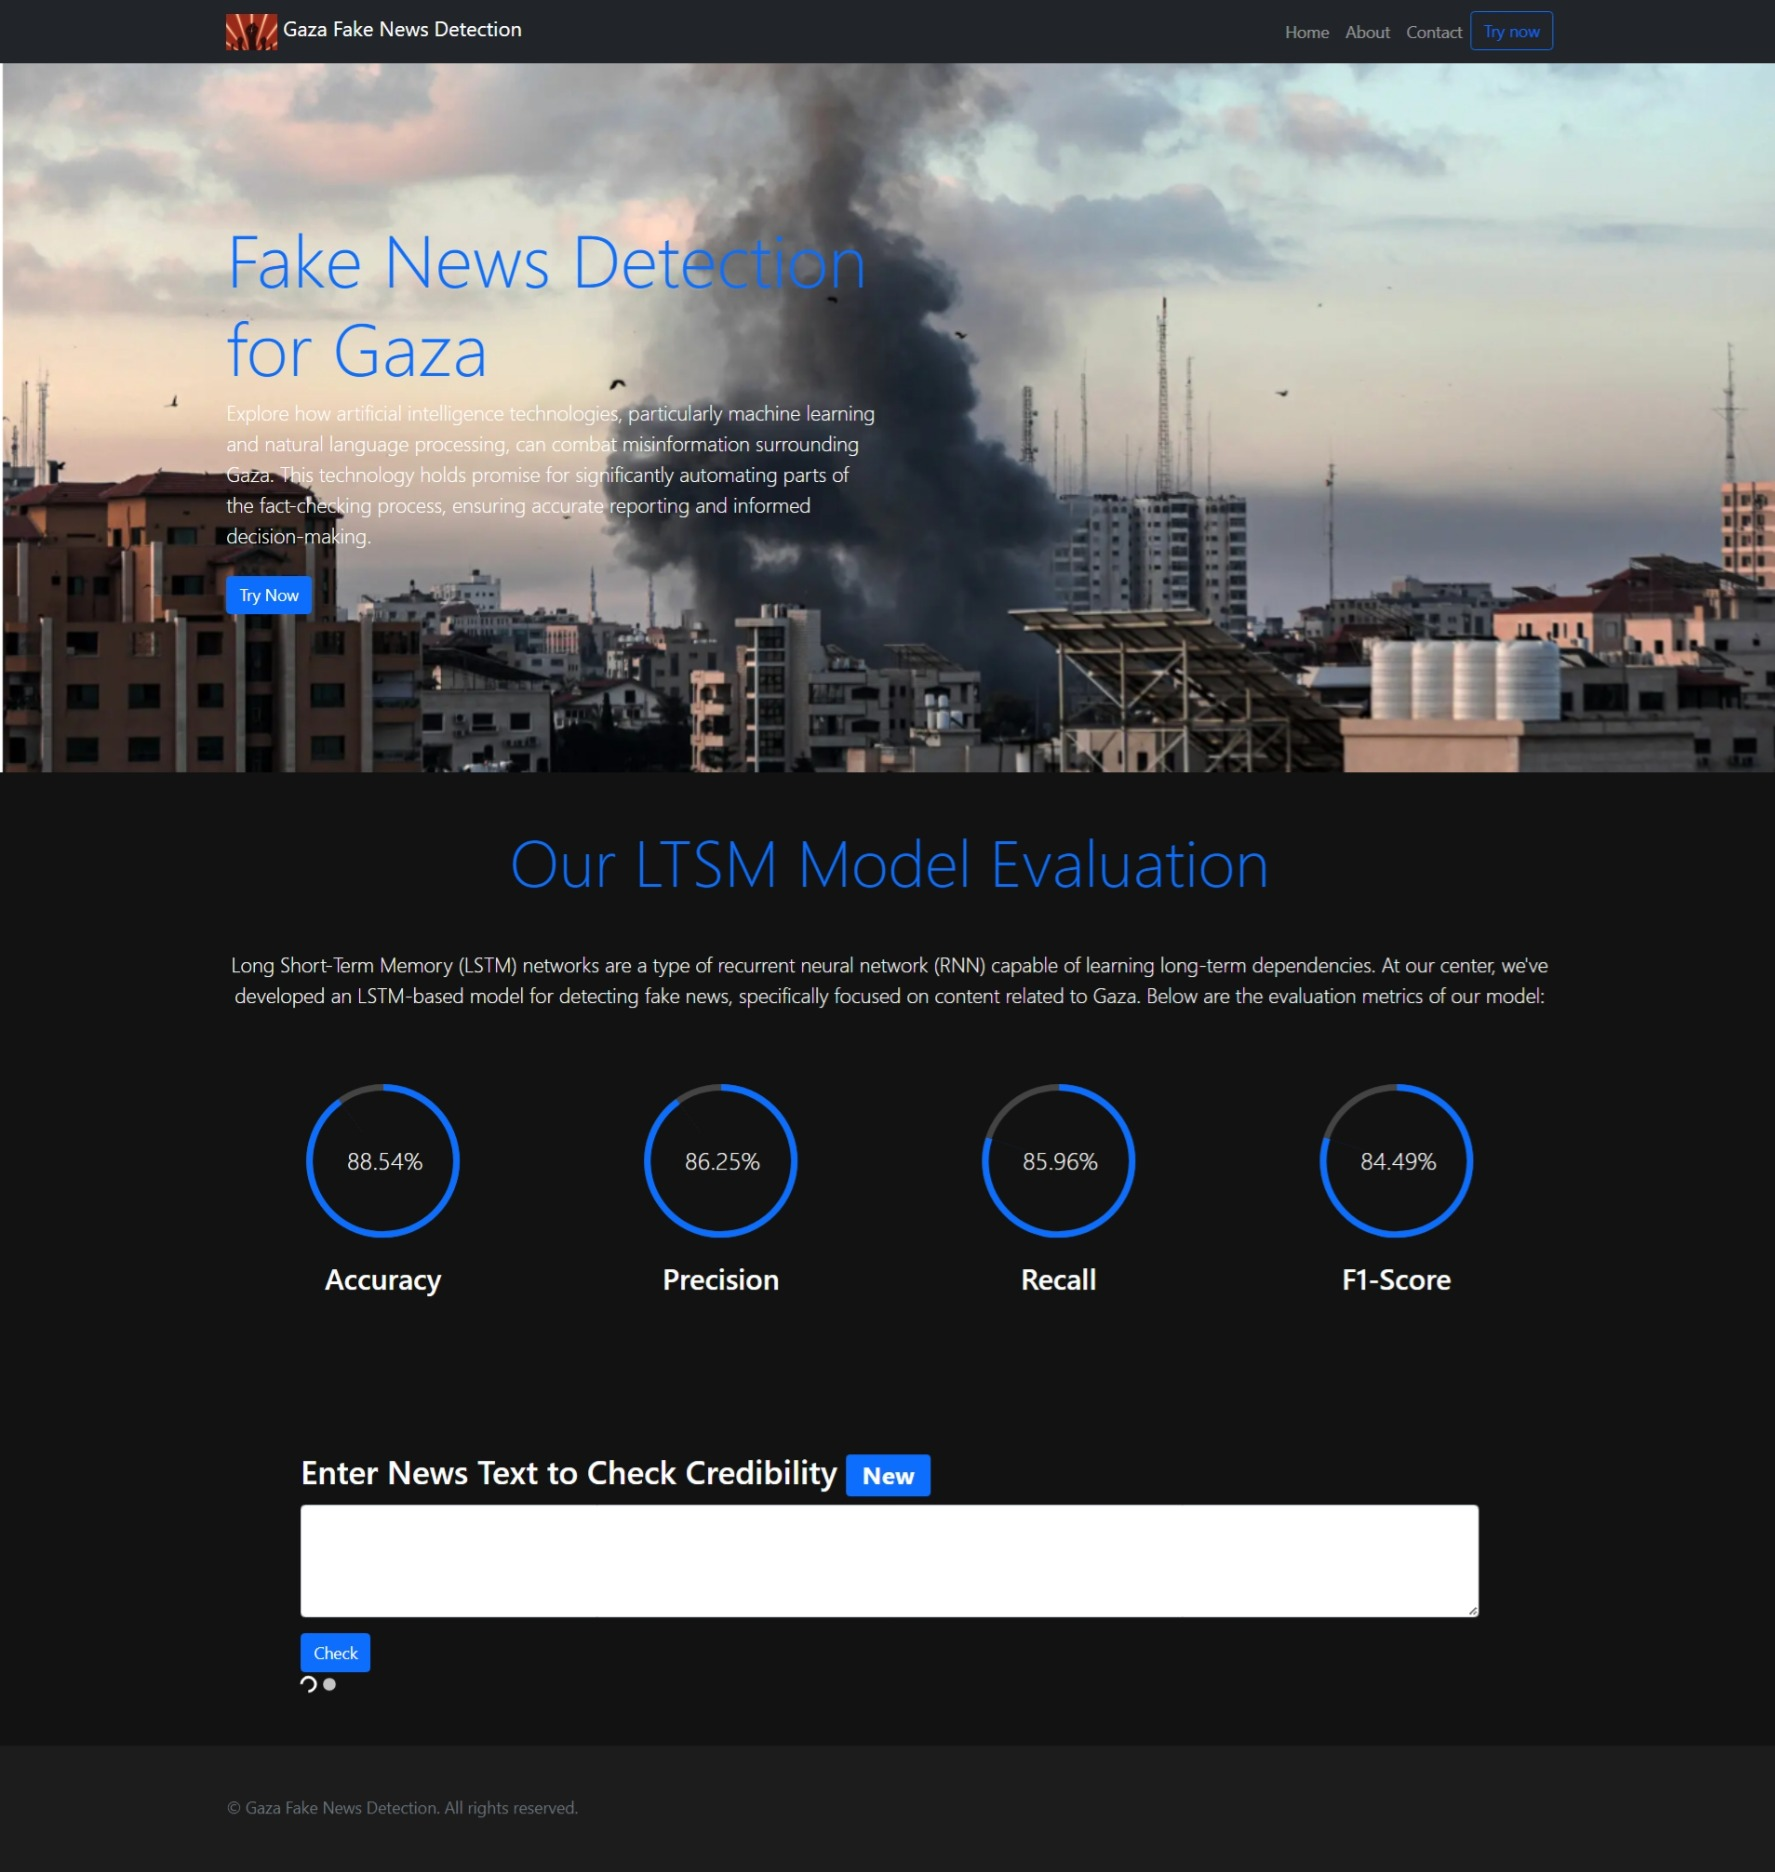
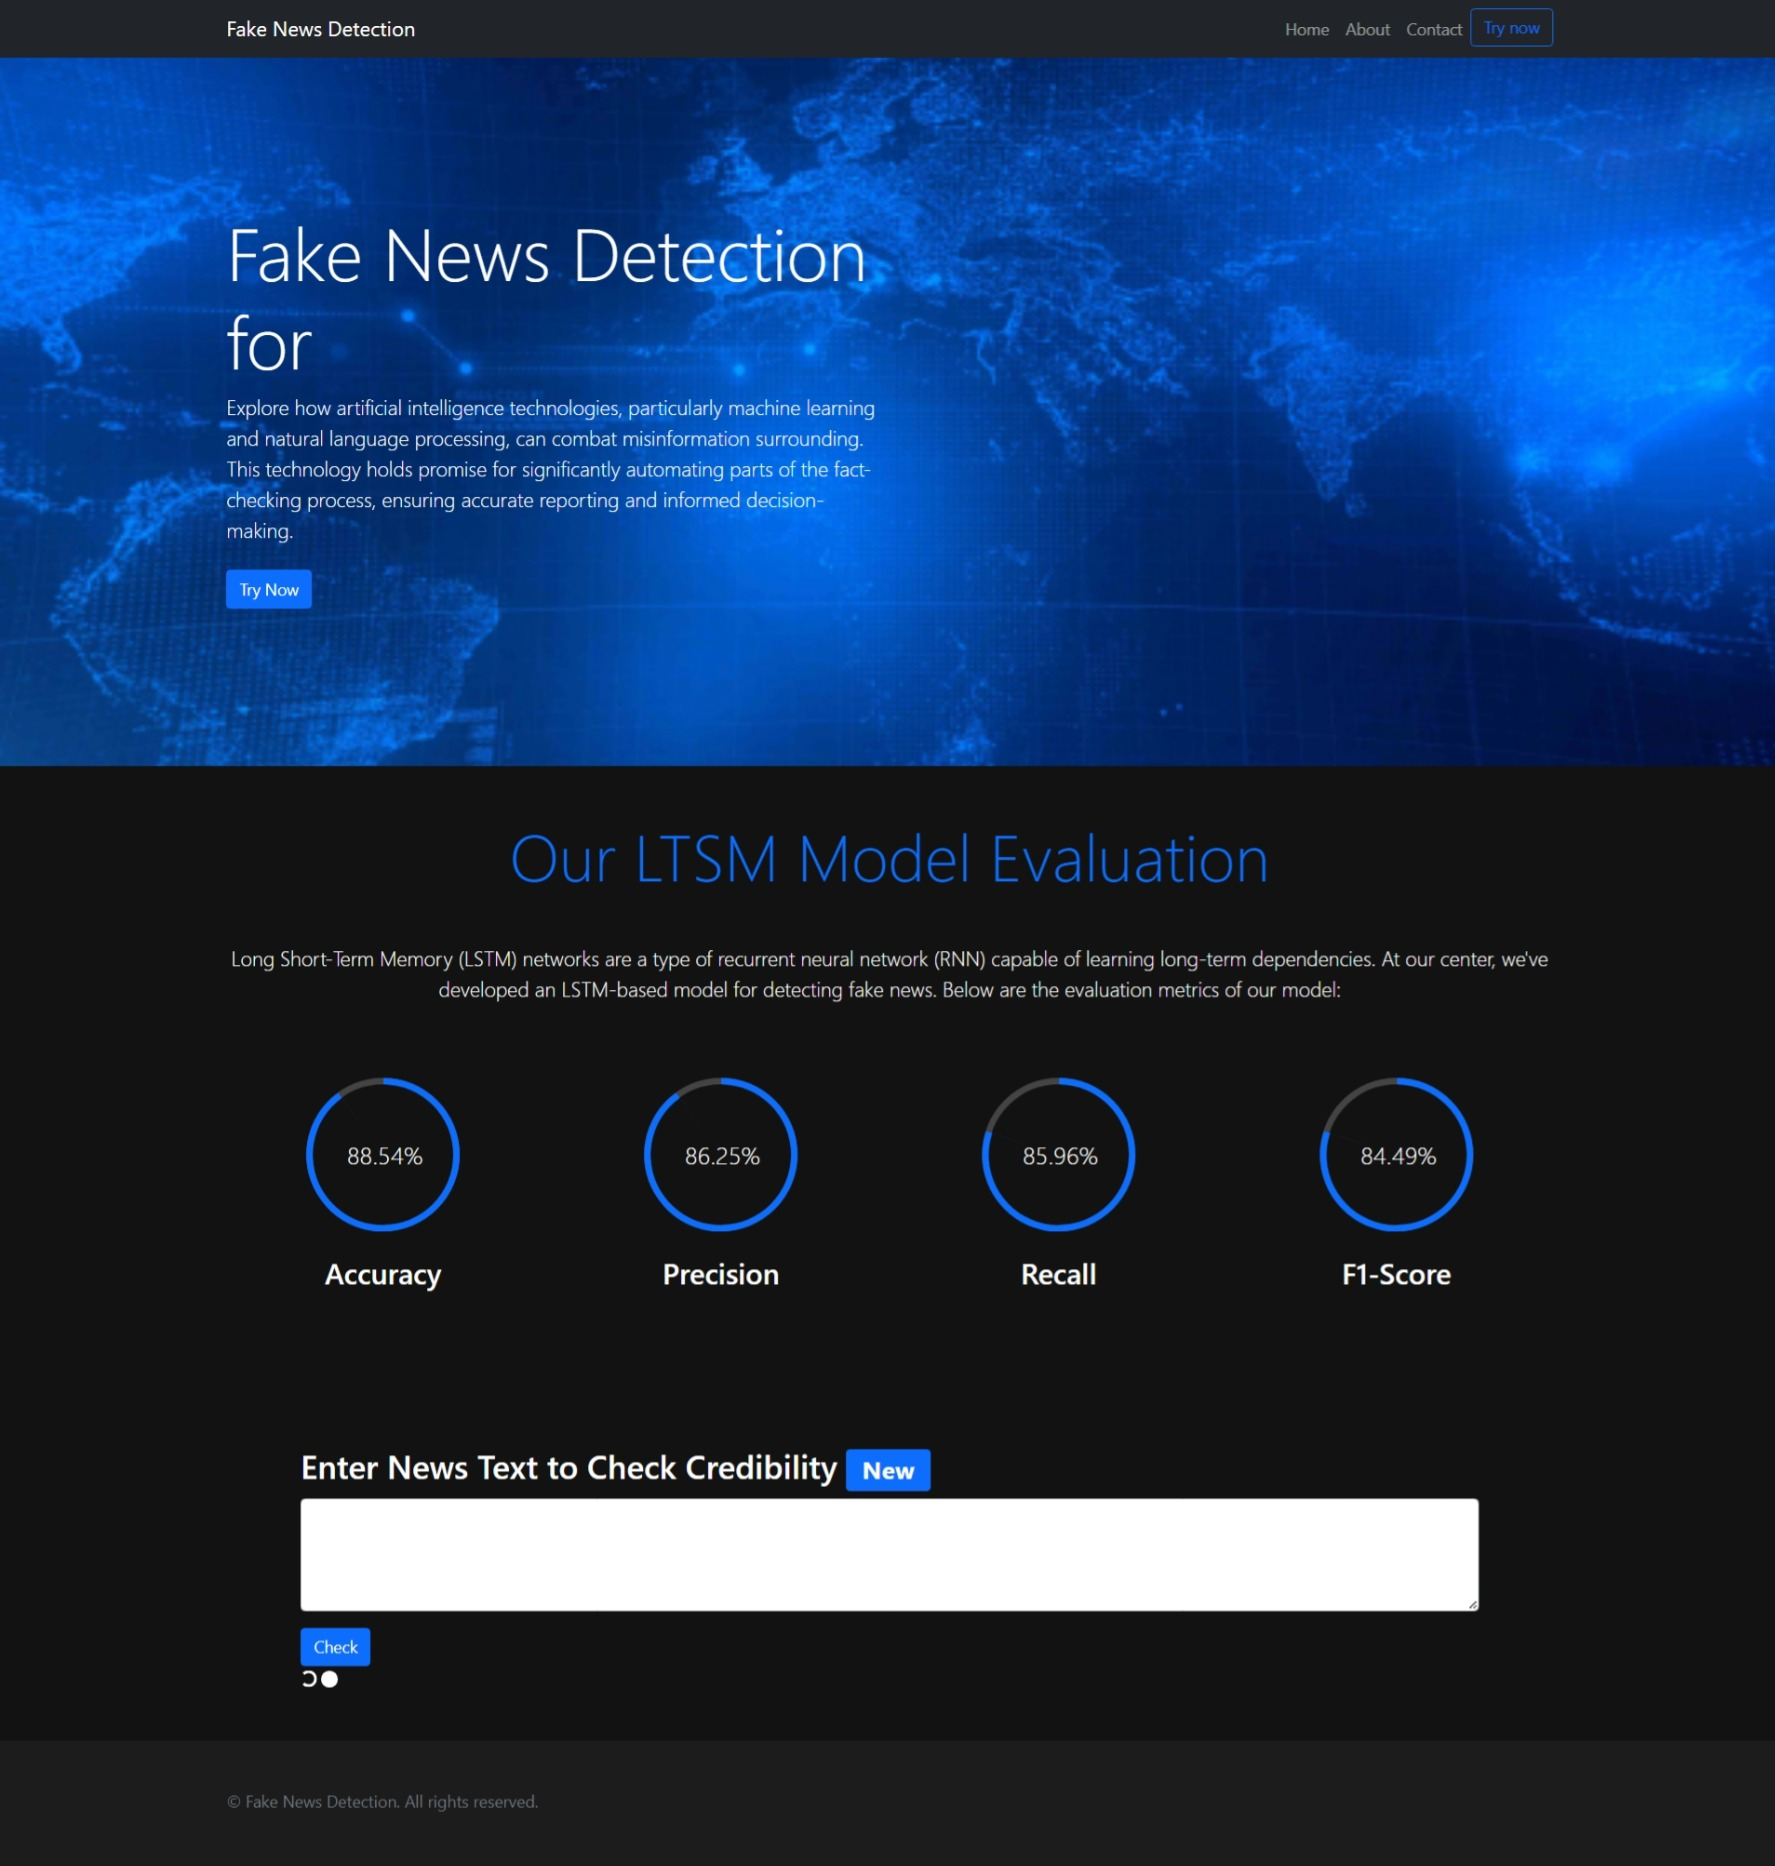
chore: Update project details

diff --git a/templates/index.html b/templates/index.html
@@ -13,7 +13,7 @@
 	<link rel="icon" type="image/png" href="./assets/images/21601.png" />
 	<link href="https://cdn.jsdelivr.net/npm/bootstrap@5.0.2/dist/css/bootstrap.min.css" rel="stylesheet"
 		integrity="sha384-EVSTQN3/azprG1Anm3QDgpJLIm9Nao0Yz1ztcQTwFspd3yD65VohhpuuCOmLASjC" crossorigin="anonymous">
-	<title>Home - Gaza Fake News Detection</title>
+	<title>Home - Fake News Detection</title>
 	<style>
 		.dark-mode {
 			background-color: #121212;
@@ -301,9 +301,7 @@
 		<nav class="navbar navbar-expand-lg navbar-dark bg-dark">
 			<div class="container">
 				<a class="navbar-brand" href="#">
-					<img src="{{ url_for('static', filename='img/th.jpeg') }}" alt="Logo" width="50" height="35"
-						class="d-inline-block align-text-top">
-					Gaza Fake News Detection
+					Fake News Detection
 				</a>
 				<button class="navbar-toggler" type="button" data-bs-toggle="collapse"
 					data-bs-target="#navbarResponsive" aria-controls="navbarResponsive" aria-expanded="false"
@@ -333,17 +331,17 @@
 	</header>
 	<main>
 		<section>
-			<div class="hero" style="background-image: url({{url_for('static', filename='img/wp.png')}})">
+			<div class="hero" style="background-image: url({{url_for('static', filename='img/Preview.jpg')}})">
 				<div class="opacity"></div>
 				<div class="container">
 					<div class="row">
 
 						<div class="col-md-6">
-							<h1 class="display-2" style="color: #0d6efd;">Fake News Detection for Gaza</h1>
+							<h1 class="display-2">Fake News Detection for</h1>
 							<p class="lead ">Explore how artificial intelligence technologies, particularly machine
 								learning and
 								natural
-								language processing, can combat misinformation surrounding Gaza. This technology holds
+								language processing, can combat misinformation surrounding. This technology holds
 								promise
 								for significantly automating parts of the fact-checking process, ensuring accurate
 								reporting and
@@ -360,8 +358,7 @@
 
 			<p class="lead mb-5">
 				Long Short-Term Memory (LSTM) networks are a type of recurrent neural network (RNN) capable of learning
-				long-term dependencies. At our center, we've developed an LSTM-based model for detecting fake news,
-				specifically focused on content related to Gaza. Below are the evaluation metrics of our model:
+				long-term dependencies. At our center, we've developed an LSTM-based model for detecting fake news. Below are the evaluation metrics of our model:
 			</p>
 			<div class="row">
 				<div class="col-md-3 mb-5">
@@ -463,7 +460,7 @@
 	</main>
 	<footer class="text-muted py-5">
 		<div class="container">
-			<p class="mb-1">&copy; {{ current_year }} Gaza Fake News Detection. All rights reserved.</p>
+			<p class="mb-1">&copy; {{ current_year }} Fake News Detection. All rights reserved.</p>
 		</div>
 	</footer>
 	<script src="https://cdn.jsdelivr.net/npm/@popperjs/core@2.10.2/dist/umd/popper.min.js"

diff --git a/tempCodeRunnerFile.py b/tempCodeRunnerFile.py
@@ -1,0 +1,1 @@
+removeDiacretics

diff --git a/README.md b/README.md
@@ -1,6 +1,6 @@
-# Arabic Fake News Detection for Gaza
+# Arabic Fake News Detection
 
-This project aims to develop a system for detecting fake news in Arabic related to the Gaza region. The goal is to provide a tool that can help users identify and verify the authenticity of news articles and reports.
+This project aims to develop a system for detecting fake news in Arabic. The goal is to provide a tool that can help users identify and verify the authenticity of news articles and reports.
 
 
 ## Approach
